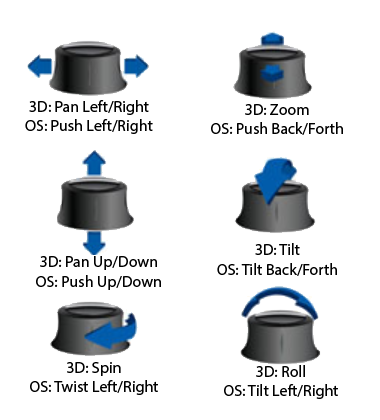
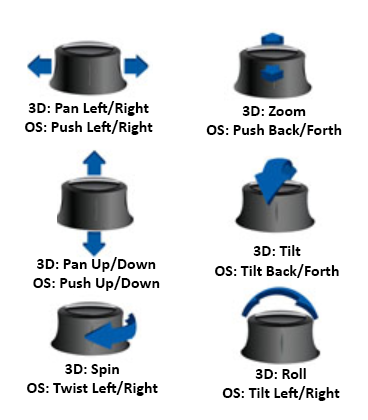
Fix double image in joystick wiki
* + some small text updates

diff --git a/using-openspace/navigation/joystick-customization.md b/using-openspace/navigation/joystick-customization.md
@@ -1,16 +1,18 @@
-# Customizing the joystick navigation
+# Customizing the Joystick Navigation
 This page goes in-depth into how to customize the joystick navigation to your own liking. If you want to learn more about the default joystick navigation in OpenSpace, see [Joystick Navigation](joystick).
 
-To start, you will need an asset file to edit. If you are using a controller that matches one of the assets that OpenSpace already provides (Xbox, PS4, SpaceMouse, etc.) it is recommended that you start with a copy of that matching asset and place it in your `user\data\assets` folder. However, if the controller you will use does not match any provided asset, it is still recommended to start with one of the assets that are provided, such as the `space-mouse-compact` asset. The steps will be the same in both cases with the exception that the new controller will need some additional setup, see [Setup new joystick type](#setup-new-joystick-type) before moving on to the customization.
+To start, you will need an asset file to edit. If you are using a controller that matches one of the assets that OpenSpace already provides (Xbox, PS4, PS5, SpaceMouse, etc.) it is recommended that you start with a copy of that matching asset and place it in your `user\data\assets` folder. However, if the controller you will use does not match any provided asset, it is still recommended to start with one of the assets that are provided, such as the `space-mouse-compact` asset. The steps will be the same in both cases with the exception that the new controller will need some additional setup, see [Setup new joystick type](#setup-new-joystick-type) before moving on to the customization.
 
 
-## Bind camera navigation to a joystick axis
+## Bind a Camera Navigation to a Joystick Axis
 To bind a camera movement to an axis of the controller you will need the function `openspace.navigation.bindJoystickAxis` that takes eight arguments. Below is a list that describes each argument in detail. If you are customizing an already existing asset then you probably do not want to add a new camera movement binding, instead, you might want to alter the pre-existing ones. To customize a camera movement it is most likely only necessary to change a few of the input values in the pre-existing function call to the function `openspace.navigation.bindJoystickAxis`.
 
-  1. The name of the controller you want to use (for more info on how to find this name, see [Joystick Navigation](joystick)). It is important that this name matches the name that OpenSpace detects for the controller.
+  1. The name of the controller you want to use (for more info on how to find this name, see [Joystick Navigation Issues](./joystick.md#openspace-does-not-react-to-the-controller-input)). It is important that this name matches the name that OpenSpace detects for the controller.
   1. The index of which axis on the controller you want to bind the camera movement to. This is distinct for the type of controller you will use and to find these values for a new controller see [Setup new joystick type](#setup-new-joystick-type). If you are using an already supported controller, you can use the "map" at the top of the asset to find the indices. Either you can put in the indices directly or you can use the map with the descriptive name such as `controller.RightTrigger` or `controller.LeftThumbStick.LeftRight`.
   1. The type of camera movement you want this axis to do. This defines how the camera will move in OpenSpace when you move the specified axis of the controller. Must be one of the identifiers in the following list:
 
+     :::{table}
+     :align: center
      | Identifier   | Description                                                             |
      |--------------|-------------------------------------------------------------------------|
      | "None"       | Unbinds the axis, no camera movement is applied. Default value from the start. |
@@ -23,6 +25,7 @@ To bind a camera movement to an axis of the controller you will need the functio
      | "GlobalRoll" | Roll the camera (clockwise) in relation to the focus                    |
      | "Pan X"      | Turn the camera left/right in relation to the view                      |
      | "Pan Y"      | Turn the camera up/down in relation to the view                         |
+     :::
 
   1. (Optional) Whether or not this axis should be inverted. This is a common setting in video games. Defaults to `false`.
   1. (Optional) The type of joystick that this axis represents on the controller. The options are either `"JoystickLike"` or `"TriggerLike"`. A joystick is `"TriggerLike"` if it can only be pressed or pushed in one direction. A `"JoystickLike"` axis can be pushed in two directions, for example, left **and** right, or up **and** down. Defaults to `"JoystickLike"`.
@@ -63,10 +66,10 @@ asset.onInitialize(function()
 end)
 ```
 
-## Bind a property to a joystick axis
+## Bind a Property to a Joystick Axis
 To control an OpenSpace property using an axis on a controller you will need the function `openspace.navigation.bindJoystickAxisProperty` that takes seven arguments. Below is a list that describes each argument in detail.
-  1. The name of the controller you want to use (for more info on how to find this name, see [Joystick Navigation](joystick)). It is important that this name matches the name that OpenSpace detects for the controller.
-  1. The index of which axis on the controller you want to bind the property to. This is distinct for the type of controller you are using and to find these values for a new controller see [Setup new joystick type](#setup-new-joystick-type). If you are using an already supported controller, you can use the "map" at the top of the asset to find the indices. Either you can put in the indices directly or you can use the map with the descriptive name such as `controller.RightTrigger` or `controller.LeftThumbStick.LeftRight`.
+  1. The name of the controller you want to use (for more info on how to find this name, see  [Joystick Navigation Issues](./joystick.md#openspace-does-not-react-to-the-controller-input)). It is important that this name matches the name that OpenSpace detects for the controller.
+  1. The index of which axis on the controller you want to bind the property to. This is distinct for the type of controller you are using and to find these values for a new controller see [Setup New Joystick Type](#setup-new-joystick-type). If you are using an already supported controller, you can use the "map" at the top of the asset to find the indices. Either you can put in the indices directly or you can use the map with the descriptive name such as `controller.RightTrigger` or `controller.LeftThumbStick.LeftRight`.
   1. The full identifier for the property you want to control with this axis on the controller. A tip to find this identifier is to first run OpenSpace normally and change the property with the normal GUI, then you can look at the Script Log and see the full name of the property you just changed, for more information about the Script Log see [The Script Log](/using-openspace/scripting/console/index.md#the-script-log).
   1. (Optional) The minimum value allowed to be set for this property using the axis. Defaults to `0.0`.
   1. (Optional) The maximum value allowed to be set for this property using the axis. Defaults to `100.0`.
@@ -117,19 +120,22 @@ end)
 ```
 
 
-## Bind a script to a joystick button
+## Bind a Script to a Joystick Button
 Binding a custom script to a controller button is done with the function `openspace.navigation.bindJoystickButton` that takes six arguments. Below is a list that describes each argument in detail:
-  1. The name of the controller you want to use (for more info on how to find this name, see [Joystick Navigation](joystick)). It is important that this name matches the name that OpenSpace detects for the controller.
-  1. The index of which button on the controller you want to bind the script to. This is distinct for the type of controller you are using and to find these values for a new controller see [Setup new joystick type](#setup-new-joystick-type). If you are using an already supported controller, you can use the "map" at the top of the asset to find the indices. Either you can put in the indices directly or you can use the map with the descriptive name such as `controller.A` or `controller.DPan.Left`.
+  1. The name of the controller you want to use (for more info on how to find this name, see [Joystick Navigation Issues](./joystick.md#openspace-does-not-react-to-the-controller-input)). It is important that this name matches the name that OpenSpace detects for the controller.
+  1. The index of which button on the controller you want to bind the script to. This is distinct for the type of controller you are using and to find these values for a new controller see [Setup new joystick type](#setup-new-joystick-type). If you are using an already supported controller, you can use the "map" at the top of the asset to find the indices. Either you can put in the indices directly or you can use the map with the descriptive name such as `controller.A` or `controller.DPad.Left`.
   1. The script that should be executed when the button is activated. A tip to find this script is to use the Script Log, for more information see [The Script Log](/using-openspace/scripting/console/index.md#the-script-log).
   1. Description of the script that the button will execute when the button is activated.
   1. (Optional) When the button should be interpreted as activated, defaults to `"Press"`. This must be one of the identifiers in the following list:
+     :::{table}
+     :align: center
      | Identifier | Description                                     |
      | ---------- | ----------------------------------------------- |
      | "Idle"     | When the button is **not** pressed              |
      | "Press"    | When the button is pressed                      |
      | "Repeat"   | When the button is held pressed                 |
-     | "Release"  | When the button was pressed and is not released |
+     | "Release"  | When the button was pressed and is now released |
+     :::
   1. (Optional) Whether or not the script should be forwarded to other connected nodes or sessions. This is similar to the `"isLocal"` parameter for actions. Defaults to `true`.
 
 Here is an example asset that switches focus when pressing the trigger buttons on an Xbox controller:
@@ -194,20 +200,32 @@ end)
 ```
 
 
-## Setup new joystick type
-When connecting a new controller to OpenSpace the first step is to get a good mapping of what buttons and axes the controller has and what indices they are connected to. To get an overview of the joysticks and its axes and buttons you can use the connected joysticks list in OpenSpace. You can access this list by pressing the *F1* button on the keyboard and you will see the old GUI interface of OpenSpace pop up. In the window called **OpenSpace GUI**, press the empty checkbox next to **Joysticks Information**. This will open a new window and here all the connected controllers will be listed. In this list, you can search for your controller. The items in the list called *3Dconnexion KMJ Emulator* or *Summed contributions* can be ignored. Once you have found your controller you will see two numbered lists of axes and buttons with a slider and button respectively. See the image below:
+## Setup New Joystick Type
+When connecting a new controller to OpenSpace, the first step is to get a good mapping of what buttons and axes the controller has and what indices they are connected to. To get an overview of the joysticks and its axes and buttons you can use the connected joysticks list in OpenSpace. You can access this list by pressing the *F1* button on the keyboard and you will see the old GUI interface of OpenSpace pop up. In the window called **OpenSpace GUI**, press the empty checkbox next to **Joysticks Information**. This will open a new window and here all the connected controllers will be listed. In this list, you can search for your controller. The items in the list called *3Dconnexion KMJ Emulator* or *Summed contributions* can be ignored. Once you have found your controller you will see two numbered lists of axes and buttons with a slider and button respectively. See the image below:
 
-![](joysticks-list.png)
+:::{image} joysticks-list.png
+:alt: "Where to find a joystick entry in the GUI list"
+:align: center
+:class: only-light
+:::
 
-Now we can begin to explore the controller. What we want to have in the end is a list of all the axes and buttons and which index in the OpenSpace list they correspond to. To start it can be good to have descriptive names for each button and axis you can find on the controller, or at least the ones that you are interested in.
+Now we can begin to explore the controller. What we want to have in the end is a list of all the axes and buttons and which index in the OpenSpace list they correspond to. To start, it can be good to have descriptive names for each button and axis you can find on the controller, or at least the ones that you are interested in.
 
 Now that we have a clear image of what the controller is capable of, we need to figure out how it is connected to OpenSpace. Let's start with the axes, we want to identify which index in the OpenSpace list corresponds to each axes on the controller. Choose one axis and move it around a little bit on the controller, you should see one or more sliders reacting to your movement in the list in OpenSpace. If you see several sliders reacting to your movement, try to isolate your movement to only one direction such as up/down or left/right. When you are certain of which index reacted to your input to the axis you can note that down and move on to the next axis. Below is an image to show how it can look like when one of the axes has been moved:
 
-![](joystick-axis.png)
+:::{image} joystick-axis.png
+:alt: "Where to find the axes in the joystick entry"
+:align: center
+:class: only-light
+:::
 
-For the buttons, we will use the same strategy, push one button a few times and see which of the buttons in OpenSpace reacts, note down that number, and move on to the next. Now that we have a clear image of how each button and axis relate to the list in OpenSpace we could build a map in our asset. Below is an image to show how it can look like when one of the buttons is pressed:
+For the buttons, we will use the same strategy, push one button a few times and see which of the buttons in OpenSpace reacts, note down that number, and move on to the next. Now that we have a clear image of how each button and axis relate to the list in OpenSpace, we could build a map in our asset. Below is an image to show how it can look like when one of the buttons is pressed:
 
-![](joystick-button.png)
+:::{image} joystick-button.png
+:alt: "Where to find the buttons in the joystick entry"
+:align: center
+:class: only-light
+:::
 
 In each joystick asset file that OpenSpace provides there will be a section at the top that looks similar to this:
 
@@ -275,5 +293,5 @@ local NameOfController = {
 
 Now that you have defined your map over your controller you can start customizing it and bind camera movements to the axes and scripts to the buttons, as the guide above describes.
 
-### Contribute your asset
-If you have created a new asset file for a controller that OpenSpace does not already provide, consider contributing it to the repository so other users can use it too. Contact us on our [Slack](https://openspacesupport.slack.com) and we can help you get it into the repository or onto our content [Hub](http://hub.openspaceproject.com/).
+### Contribute Your Joystick Asset
+When you have created a new asset file for a controller that OpenSpace does not already provide, consider contributing it to the repository so other users can use it too. Contact us on our [Slack](https://openspacesupport.slack.com) and we can help you get it into the repository or onto our content [Hub](http://hub.openspaceproject.com/).

diff --git a/using-openspace/navigation/joystick.md b/using-openspace/navigation/joystick.md
@@ -1,8 +1,8 @@
-# Joystick navigation
-In addition to the normal navigation using the keyboard and mouse, it is also possible to navigate using a controller, such as an Xbox controller, PS4 controller, or a SpaceMouse. If you want to use any of these supported controllers you need to include their corresponding `.asset` file in a profile. See the manual on [Profiles](/profiles/index) for further information about this. All of the joystick assets are located in the sub-folder `data/assets/util/joysticks` inside the OpenSpace folder. It is important to include the right asset file for the type of controller you are using. For example, the wireless Xbox asset will not work with a non-wireless Xbox controller and vice versa. If you are unsure about what type of controller you are using, you could instead try to include the `any-joystick` asset. This asset will try to auto-detect what type of controller is connected to the computer and add the corresponding asset file automatically. If you want to use a controller that does not have an already provided asset file in OpenSpace, you can create your own asset file for it, see [Joystick Customization](joystick-customization) for an in-depth guide. The same page also includes information on how to customize the asset files to enable new functionality.
+# Joystick Navigation
+In addition to the normal navigation using the keyboard and mouse, it is also possible to navigate using a controller, such as an Xbox controller, PS4/PS5 controller, or a SpaceMouse. If you want to use any of these supported controllers you need to include their corresponding `.asset` file in a profile. See the manual on [Profiles](/profiles/index) for further information about this. All of the joystick assets are located in the sub-folder `data/assets/util/joysticks` inside the OpenSpace folder. It is important to include the right asset file for the type of controller you are using. For example, the wireless Xbox asset will not work with a non-wireless Xbox controller and vice versa. If you are unsure about what type of controller you are using, you could instead try to include the `any-joystick` asset. This asset will try to auto-detect what type of controller is connected to the computer and add the corresponding asset file automatically. If you want to use a controller that does not have an already provided asset file in OpenSpace, you can create your own asset file for it, see [Joystick Customization](joystick-customization) for an in-depth guide. The same page also includes information on how to customize the asset files to enable new functionality.
 
 
-## Xbox controller
+## Xbox Controller
 The image below shows a map of the buttons and joysticks on an Xbox controller.
 
 :::{image} xbox.png
@@ -12,15 +12,19 @@ The image below shows a map of the buttons and joysticks on an Xbox controller.
 :class: only-light
 :::
 
+<!-- TODO: Use the dark mode version when the automatic switching has been fixed
 :::{image} xbox_dark.png
 :alt: "Xbox Controller Schematic"
 :width: 80%
 :align: center
 :class: only-dark
 :::
+-->
 
 Navigation using an Xbox controller in OpenSpace is defined in the Xbox asset file (`xbox.asset`) or the Xbox wireless asset file (`xbox-wireless.asset`). The table below shows the function for each button or joystick on the Xbox controller. NA in the table specifies that this button or joystick has no functionality per default, read more about how to add or customize functionality in [Joystick Customization](joystick-customization).
 
+:::{table}
+:align: center
 | Button or joystick | Description |
 |--------------------|-------------|
 | A | Toggle rotation friction |
@@ -31,7 +35,7 @@ Navigation using an Xbox controller in OpenSpace is defined in the Xbox asset fi
 | RB | Focus on the next object in the interesting objects list |
 | LT | Zoom out |
 | RT | Zoom in |
-| Up | Pressed: Enable local roll for right joystick left/right <br/> Released: Disable local roll for right joystick left/right |
+| Up | Pressed: Enable local roll for right joystick left/right <br/>Released: Disable local roll for right joystick left/right |
 | Right | Make time go faster forward, press several times for faster |
 | Left | Make time go faster backward, press several times for faster |
 | Down | Reset time speed to real-time |
@@ -43,10 +47,11 @@ Navigation using an Xbox controller in OpenSpace is defined in the Xbox asset fi
 | Right joystick Press | Refocus the camera, look at the currently focused object |
 | Select | Reset time to yesterday |
 | Start | Pause time |
+:::
 
 
-## PS4 controller
-The navigation using an Xbox or PS4 controller is very similar, the only difference is the layout of the controllers. Otherwise, the functionality is the same. The image below shows a map of the buttons and joysticks on a PS4 controller.
+## PS4/PS5 Controller
+The navigation using an Xbox or PS4/PS5 controller is very similar, the only difference is the layout of the controllers. Otherwise, the functionality is the same. The image below shows a map of the buttons and joysticks on a PS4 controller (a PS5 controller is very similar).
 
 :::{image} ps4.png
 :alt: "PS4 Controller Schematic"
@@ -55,15 +60,19 @@ The navigation using an Xbox or PS4 controller is very similar, the only differe
 :class: only-light
 :::
 
+<!-- TODO: Use the dark mode version when the automatic switching has been fixed
 :::{image} ps4_dark.png
 :alt: "PS4 Controller Schematic"
 :width: 80%
 :align: center
 :class: only-dark
 :::
+-->
 
-Navigation using a PS4 controller in OpenSpace is defined in the PS4 asset file (`ps4.asset`). The table below gives an overview of what each button or joystick on the PS4 controller does in OpenSpace. NA in the table specifies that this button or joystick has no functionality per default, read more about how to add or customize functionality in [Joystick Customization](joystick-customization).
+Navigation using a PS4 controller in OpenSpace is defined in the PS4 asset file (`ps4.asset`), and the PS5 controller in `ps5.asset`. The table below gives an overview of what each button or joystick on the PS4 controller does in OpenSpace (a PS5 controller is very similar). NA in the table specifies that this button or joystick has no functionality per default, read more about how to add or customize functionality in [Joystick Customization](joystick-customization).
 
+:::{table}
+:align: center
 | Button or joystick | Description |
 |--------------------|-------------|
 | Cross | Toggle rotation friction |
@@ -88,6 +97,7 @@ Navigation using a PS4 controller in OpenSpace is defined in the PS4 asset file 
 | Options | Reset time to yesterday |
 | Touch Pad | Pause time |
 | PS | NA |
+:::
 
 
 ## SpaceMouse
@@ -99,14 +109,10 @@ The SpaceMouse is a controller that has a joystick with 6 degrees of freedom tha
 :class: only-light
 :::
 
-:::{image} spacemouse-map_dark.png
-:alt: "Spacemouse Mapping Schematic"
-:align: center
-:class: only-dark
-:::
-
 The table below gives an overview of what each button or joystick on the SpaceMouse does in OpenSpace. The `Left` and `Right` buttons are only supported for the Compact version of the SpaceMouse. However, if you are using the Enterprise version you can bind some of the buttons to a regular key on the keyboard and bind actions to them.
 
+:::{table}
+:align: center
 | Button or joystick | Description |
 |--------------------|-------------|
 | Push left/right    | Orbit around focus left/right |
@@ -117,18 +123,18 @@ The table below gives an overview of what each button or joystick on the SpaceMo
 | Tilt up/down       | Pan camera up/down |
 | Left button        | Switch to local roll mode (Default) |
 | Right button       | Switch to global roll mode |
+:::
 
 The Left and Right buttons switch the roll mode to local or global respectively. The difference between these two is that the local roll mode rolls the camera around the center of the screen, while the global roll mode rolls the camera around the current focus.
 
 
-## Customizing the joystick navigation
+## Customizing the Joystick Navigation
 It is possible to customize the joystick navigation to your own liking. However, this will require some editing in the asset files, for an in-depth guide on how to do this see [Joystick Customization](joystick-customization). There you can also read more about how to define your own asset for a controller that OpenSpace does not yet provide an asset.
 
-
-## Issues and solutions
+## Issues and Solutions
 Here is a list of some issues you can encounter related to the controllers and some tips on how to fix them.
 
-### OpenSpace does not react to the controller input
+### OpenSpace Does Not React to the Controller Input
 The first thing to check here is that the controller is connected correctly to the computer, that the correct asset file has been included in the profile, and that the right profile is run. If OpenSpace still does not react to the controller then it is possible that your controller has a different name than what OpenSpace expects. You can check the name of your controller when OpenSpace is running in any profile. Press the *F1* button on the keyboard and you will see the old GUI interface of OpenSpace pop up. In the window called **OpenSpace GUI**, press the empty checkbox next to **Joysticks Information**. This will open a new window and here all the connected controllers will be listed. In this list you can search for your controller and note down what name it has in the list, ignoring the number in the end. The items in the list called *3Dconnexion KMJ Emulator* or *Summed contributions* can be ignored. The next step is to change the name of the controller in the asset file. Start by opening the asset file corresponding to your controller in a text editor. You will need to change one line of code that specifies the controller name, you can see an example for the Xbox controller below (all other joystick assets look similar).
 
 ```lua
@@ -142,7 +148,7 @@ asset.onInitialize(function()
   ...
 ```
 
-### OpenSpace keeps spinning even when the joysticks are not touched
+### OpenSpace Keeps Spinning Even When the Joysticks Are Not Touched
 This issue is caused by the deadzone being too small for the joysticks or the triggers on the controller. To fix it you can increase the size of the deadzone by editing one or two lines in the asset file. Start by opening the asset file corresponding to your controller in a text editor. You will need to change one or two lines of code that specify the deadzone size for the joysticks and triggers respectively, you can see an example for the PS4 controller below (all other joystick assets look similar).
 
 ```lua
@@ -158,5 +164,5 @@ asset.onInitialize(function()
 
 Adjust these values until the spinning stops and the feel of the navigation is good. Every time you change the values you need to restart OpenSpace. If the value is too small then the spinning might still occur on some occasions, if the value is too large then OpenSpace reaction to the input might feel delayed.
 
-### Have an issue that is not included in this list?
+### Have an Issue That Is Not Included in This List?
 Have a look at our [GitHub](https://github.com/OpenSpace/OpenSpace) for more information and potential solutions, or open a [new issue](https://github.com/OpenSpace/OpenSpace/issues/new). You can also reach us on our [Slack](https://openspacesupport.slack.com).
